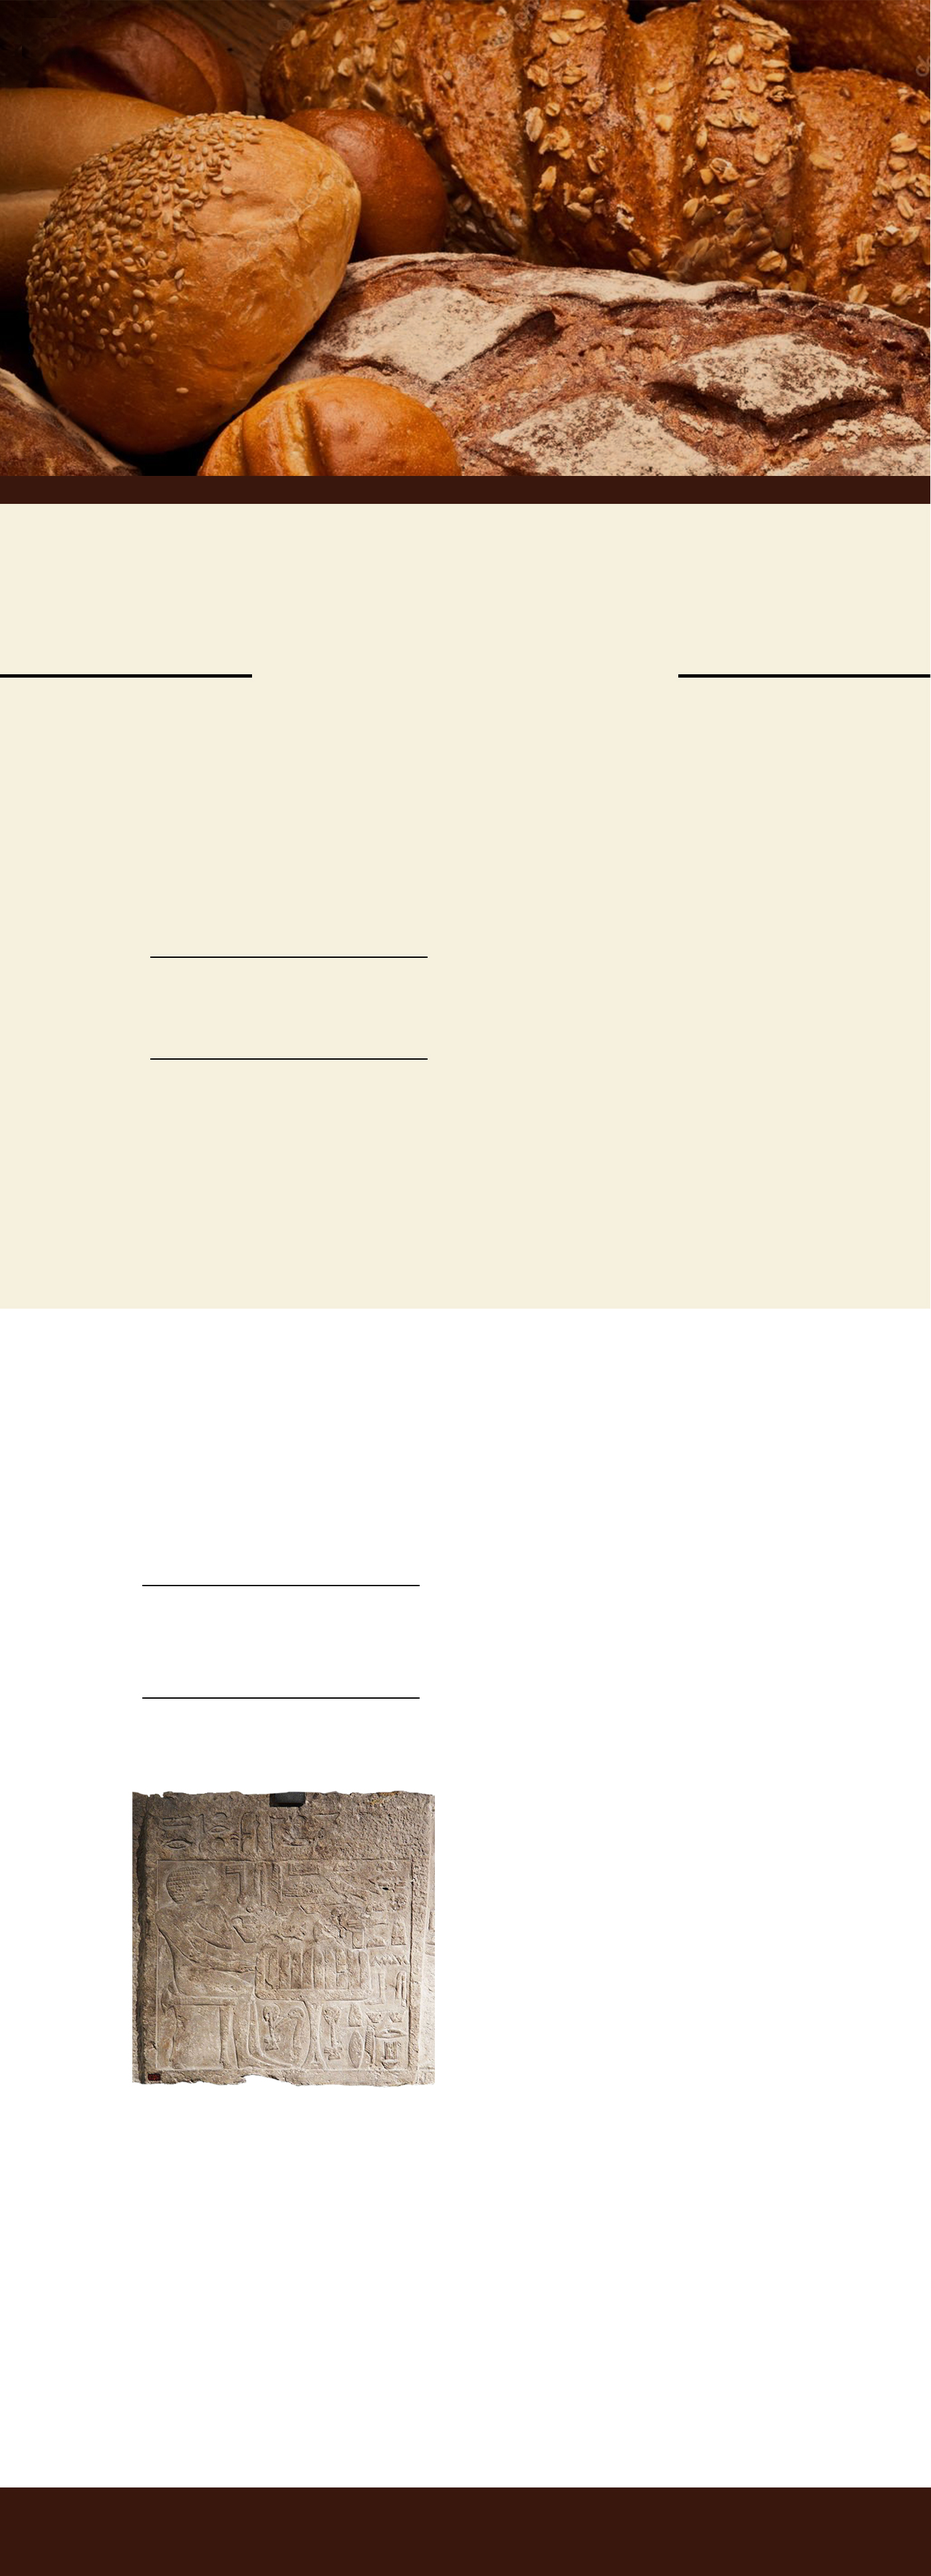
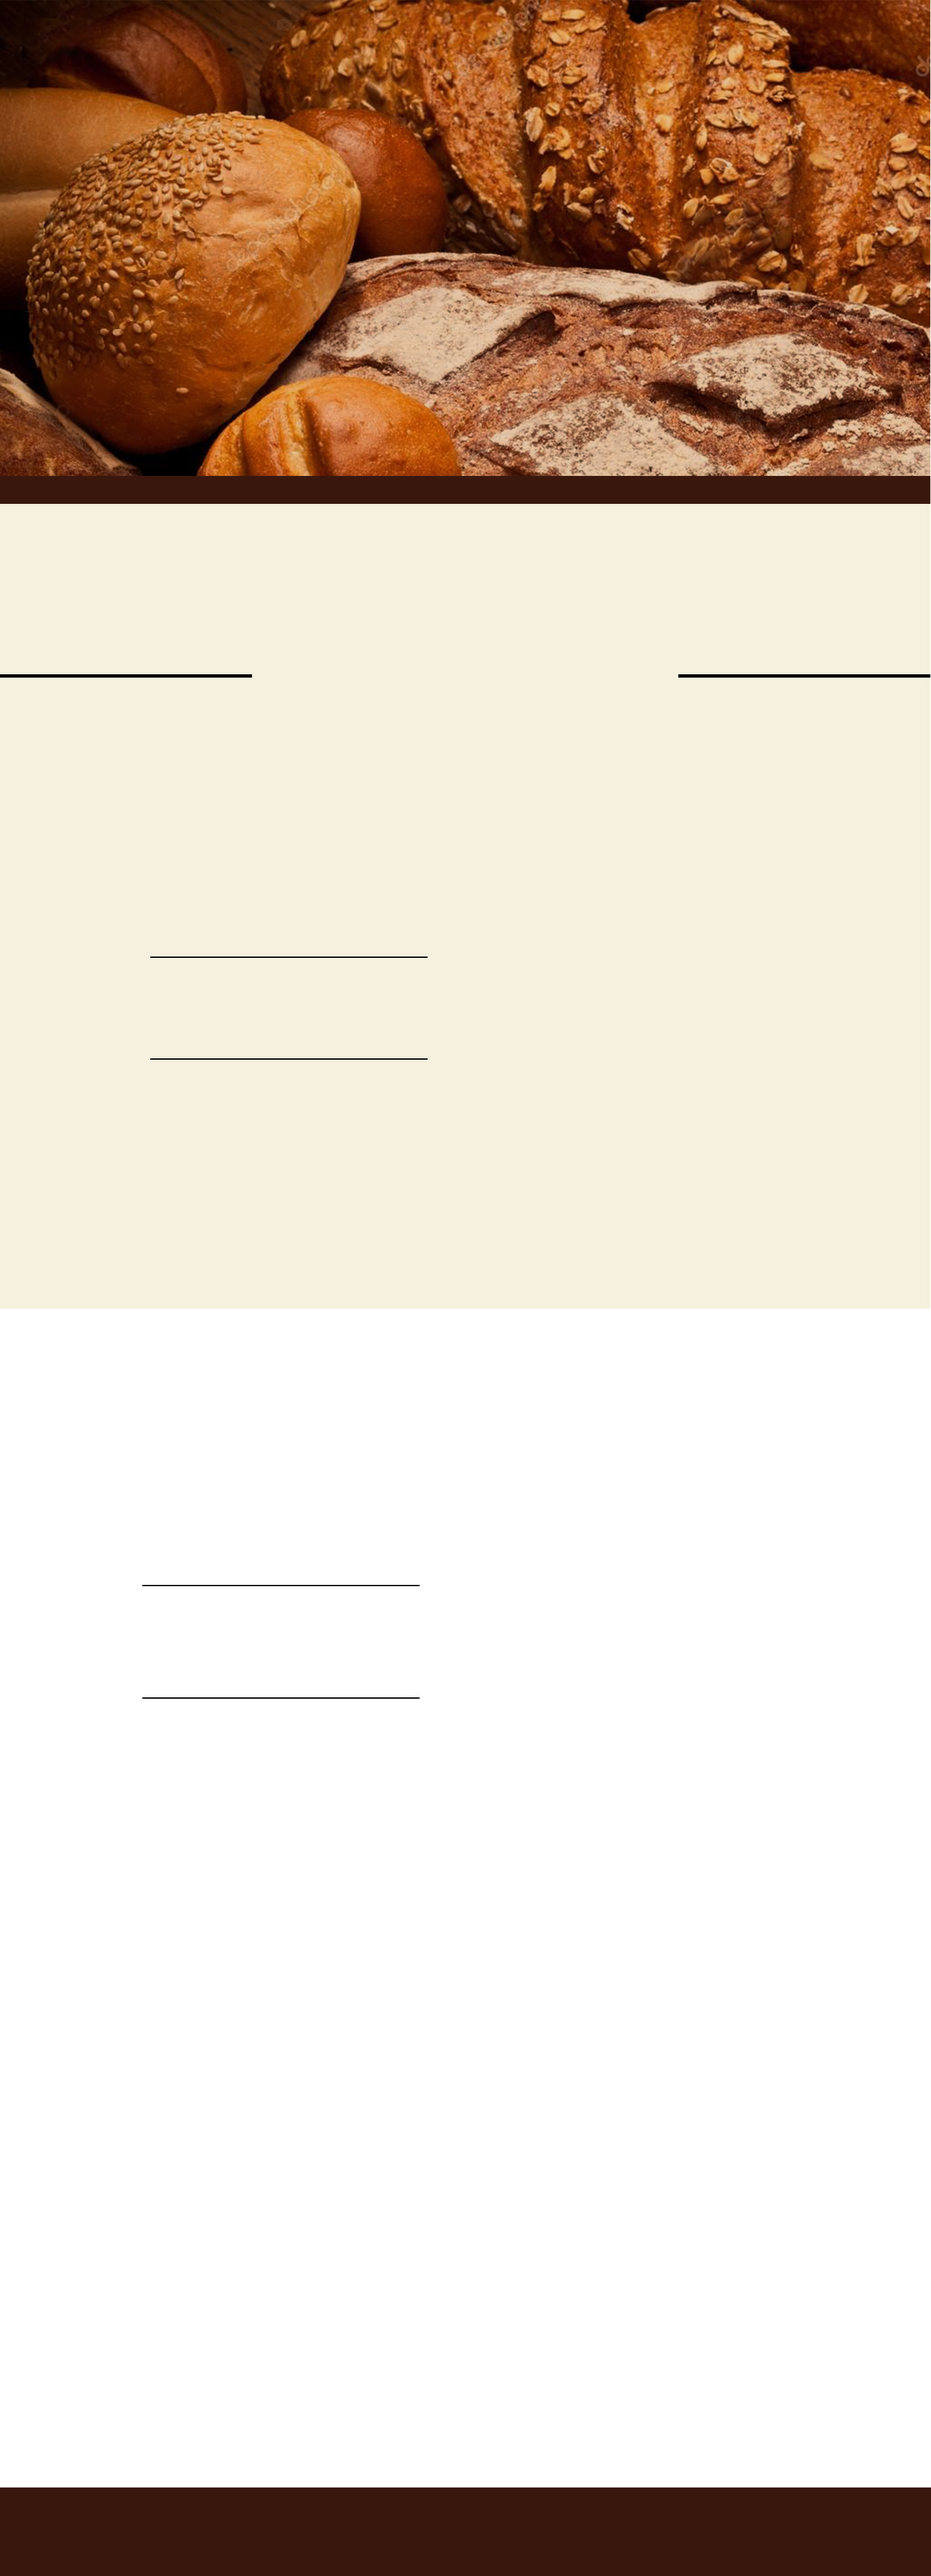
Add files via upload

Changed region(s): [[0.1229, 0.6822, 0.4914, 0.8372]]

diff --git a/index.html b/index.html
@@ -8,6 +8,7 @@
 	<link rel="stylesheet" type="text/css" href="normalize.css"> 
 
 	<style>
+		img {position: absolute;}
 		* {margin: 0; padding: 0;}
 		body{font-family: 'Noto Sans KR', sans-serif; background:white;}
 		p{ position: relative; width:1400px;  }
@@ -30,7 +31,7 @@
 		nav #main a { display: block; color:white; }
 		nav #main a:hover { display: block; font-weight:900;}
 
-		#contents1 nav #link li { width:1400px;   height:180px; position:absolute; top:1850px; left:-955px;  }
+		#contents1 nav #link li { width:1400px;   height:180px; position:absolute; top:1850px; left:-965px;  }
 
 		nav #link li {  margin-top:5px; margin-bottom:5px;  width:290px; height: 50px; line-height:50px; text-align: center; float: left; list-style: none; font-size:0.21em; }
 		
@@ -52,9 +53,10 @@
 
 		#contents1 { background: url('./img/1.jpg') no-repeat 50% 50%; background-size:100%  margin:0 auto; height:3870px; }
 	
+		#contents1 #i1 {top:490px; left:-240px;}
 
-		#contents1 #h1 {top:918px; left:390px; font-size:2.3em; line-height: 1.4; font-weight: 400;  }
-		#contents1 #h2 {top:950px; left:387px; font-size:4.8em; line-height: 1.4; font-weight: 700; }
+		#contents1 #h1 {top:918px; left:410px; font-size:2.3em; line-height: 1.4; font-weight: 400;  }
+		#contents1 #h2 {top:950px; left:407px; font-size:4.8em; line-height: 1.4; font-weight: 700; }
 		#contents1 #h3 {top:900px; left:550px; font-size:4.2em; line-height: 1.4; font-weight: 900;  }
 
 		#contents1 #h4 {top:230px; left:552px; font-size:2.5em; line-height: 1.4; font-weight: 400; color:#fae3c1; }
@@ -67,17 +69,17 @@
 		#contents1 #p3 {top:257px; left:-55px; font-size:0.39em; line-height: 2.2; font-weight: 700; }
 		#contents1 #p10 {top:245px; left:-65px; font-size:0.23em; line-height: 2.2; font-weight: 400; }
 		
-		#contents1 #p4 {top:295px; left:-175px; font-size:0.23em; line-height: 2.4; font-weight: 400; letter-spacing: -0.5px;}
-		#contents1 #p5 {top:-83px; left:330px; font-size:0.23em; line-height: 2.4; font-weight: 400; letter-spacing: -0.3px;}
+		#contents1 #p4 {top:295px; left:-165px; font-size:0.23em; line-height: 2.4; font-weight: 400; letter-spacing: -0.5px;}
+		#contents1 #p5 {top:-83px; left:350px; font-size:0.23em; line-height: 2.4; font-weight: 400; letter-spacing: -0.3px;}
 		
 		#contents1 #p6 {top:250px; left:-425px; font-size:0.23em; line-height: 2.4; font-weight: 400; text-align:center;}
 		
-		#contents1 #p7 {top:360px; left:-138px; font-size:0.23em; line-height: 2.2; font-weight: 400; }
-		#contents1 #p8 {top:485px; left:-675px; font-size:0.39em; line-height: 1.1; font-weight: 700; text-align:center;}
-		#contents1 #p11 {top:500px; left:-680px; font-size:0.23em; line-height: 1.2; font-weight: 400; text-align:center;}
+		#contents1 #p7 {top:350px; left:-138px; font-size:0.23em; line-height: 2.2; font-weight: 400; }
+		#contents1 #p8 {top:475px; left:-675px; font-size:0.39em; line-height: 1.1; font-weight: 700; text-align:center;}
+		#contents1 #p11 {top:490px; left:-680px; font-size:0.23em; line-height: 1.2; font-weight: 400; text-align:center;}
 		#contents1 #p12 {top:350px; left:-200px; font-size:0.23em; line-height: 2.2; font-weight: 400; letter-spacing: -0.4px;}
 
-		#contents1 #p9 {top:295px; left:333px; font-size:0.23em; line-height: 2.36; font-weight: 400; }
+		#contents1 #p9 {top:285px; left:333px; font-size:0.23em; line-height: 2.36; font-weight: 400; }
 	
 		#contents1 #h7 {top:3765px; left:630px; font-size:1.3em; line-height: 1.4; font-weight: 400; color:#f2a338; text-align:center; }
 		#contents1 #h8 {top:3785px; left:540px; font-size:2.7em; line-height: 1.4; font-weight: 700; color:#f2a338; text-align:center;}
@@ -187,6 +189,10 @@
 			 <p id="p7">
 			 	기후와 문명에 따라 나라별 빵도 여러가지
 			 </p>
+
+			 <div id="i1">
+				 <img src="./img/1.png">
+			</div>
 
 			 <p id="p9">
 			 	빵은 독일어로 Brot, 영어로 Bread, 네덜란드어로 Brood인데,<br>
